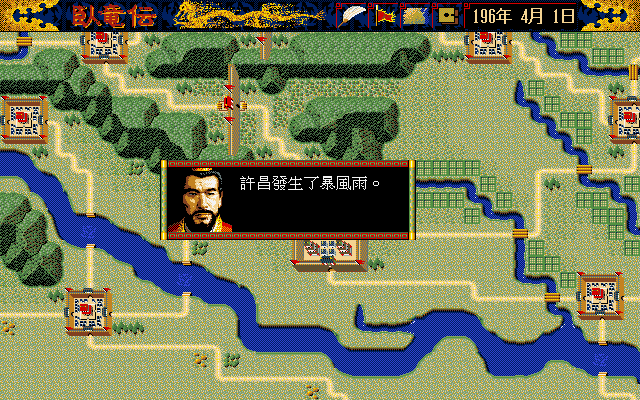
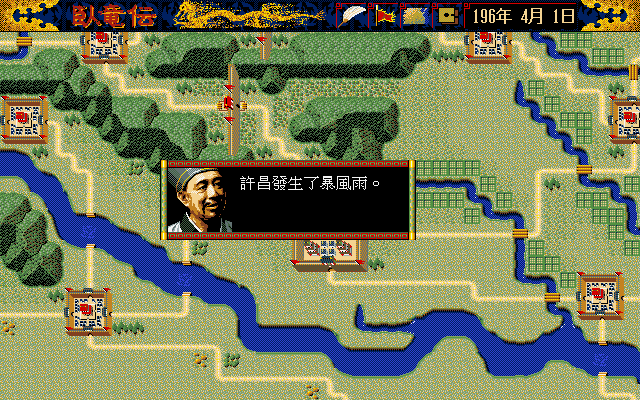
三支推廣片重錄重剪；順手補上雜湊層一直看不到的那塊
訊息框肖像、戰場快轉鈕與手機金額鍵盤都動過，所以主預告、DOS/V 實機
對照片與手機片三支全部重錄重剪，靜態圖也重拍。**五張裡只有
`promo-talk.png` 換了雜湊**——正好對應肖像那筆修正的影響範圍，
其餘四張逐位元組相同。

⭐ 順手用突變測試戳了一下 `stale_scan` 的雜湊層：把主預告的雜湊改錯
一個字元，掃描照樣通過。成因是那一層**逐行**配對「檔名 … SHA-256 …」，
而推廣片與發行產物的標準寫法是條列式、檔名與雜湊分屬不同行——
那幾支影片的雜湊結構上就比不到，綠了幾個月一次都沒驗過。

改成以段落為界的視窗（空行／標題是邊界）、取雜湊前最近的一個檔名、
`workplace/` 的 IDA 資料庫與標明「當時」的歷史值各自跳過並印出理由。
自我測試改成呼叫本體那一支，並補上條列跨行的正對照——先前它自己重寫
了一份逐行比對，所以驗的是一個本體早就不是這樣做的東西。

順帶修掉這一層現在抓得到的三處：`re/58`／`59` 把 `KI.EXE` 的雜湊寫在
`.i64` 那一欄，以及一份中間 WAV 的雜湊沒有標明是當時的值。

Changed region(s): [[0.25, 0.42, 0.375, 0.6]]

diff --git a/tools/stale_scan.py b/tools/stale_scan.py
@@ -44,11 +44,20 @@ DOC_FILES = ("README.md", "CLAUDE.md", "CONTEXT.md", "WORKLIST.md",
 # 只認「檔名 …(80 字內，且中間出現 SHA 或「雜湊」)… 64 個 hex」這種相鄰寫法。
 # 放寬到「同一行任何檔名配任何雜湊」會產生大量假陽性——一行裡常有兩三個
 # 檔名與兩三個雜湊，配對本身就是猜的。
-HASH_CLAIM = re.compile(
-    r"(?P<file>[A-Za-z0-9_\-./]+\.(?:png|mp4|ogg|wav|json|md|go|py|sh))"
-    r"(?P<mid>.{0,80}?)`?(?P<hash>[0-9a-fA-F]{64})`?",
-    re.S,
+HASH_CLAIM = re.compile(r"`?\b(?P<hash>[0-9a-fA-F]{64})\b`?")
+
+# 檔名候選：**只認白名單副檔名**。放寬到「任何 `x.y`」會把 `H.264`、
+# 版本號、`44.1 kHz` 一起收進來，而它們永遠解不出檔案 → 整批變成「跳過」，
+# 這一層就再次靜默失效。
+HASH_FILE = re.compile(
+    r"[A-Za-z0-9_\-./]+\.(?:png|jpg|gif|mp4|ogg|wav|json|md|go|py|sh|txt|csv|tsv"
+    r"|exe|dat|i64|asm|bin|apk|zip|tar|gz|AppImage)\b",
+    re.I,
 )
+# 視窗以**段落**為界（空行／標題），上限 400 字。
+# 80 字太小：條列式的「- 影片：…mp4」與「- SHA-256：`…`」中間常隔一整行規格，
+# 於是那三支推廣片的雜湊一條都比不到（2026-08-29 突變測試發現）。
+HASH_WINDOW = 400
 
 # ── 第二層：docker 映像標籤 ─────────────────────────────────────
 IMAGE_TAG = re.compile(r"\b([a-z0-9][a-z0-9._/-]*?):(20[0-9]{6}[a-z0-9.-]*)\b")
@@ -96,6 +105,55 @@ def resolve(rel, doc):
     return None
 
 
+def hash_claims(text, doc, skipped):
+    """吐出這份文件裡「某個檔案的雜湊是 X」的宣稱：(行號, 檔案路徑, 宣稱值)。
+
+    ⭐ **自我測試與本體共用這一支。** 先前的自我測試自己重寫了一份逐行的
+    比對，於是它一直在驗一個「本體早就不是這樣做」的邏輯——正對照過關，
+    真正的版面（條列式，檔名與雜湊分屬不同行）卻一條都沒比到。
+    """
+    for m in HASH_CLAIM.finditer(text):
+        start = m.start("hash")
+        window = text[max(0, start - HASH_WINDOW):start]
+        # ⭐ **視窗跨行，但不跨空行與標題。** 條列式的寫法本來就把檔名與
+        # 雜湊拆成兩行（「- 影片：…mp4」／「- SHA-256：`…`」），逐行配對
+        # 對這種版面**結構上看不到**——而那正是推廣片與發行產物的標準寫法，
+        # 於是這一層長年綠燈卻一次都沒比過那幾支影片（2026-08-29 用突變
+        # 測試發現：把主預告的雜湊改錯一個字元，掃描照樣通過）。
+        # 空行與標題是段落邊界，跨過去就會把上一段的檔名黏到這一段的雜湊上。
+        for stop in ("\n\n", "\n#"):
+            if stop in window:
+                window = window[window.rindex(stop) + len(stop):]
+        if "SHA" not in window.upper() and "雜湊" not in window:
+            continue
+        # 明講是「當時」的值＝刻意保留的歷史紀錄，不是現況宣稱。
+        # ⚠ 只看雜湊自己那一行與前一行——用整個段落找「當時」會讓
+        # 段落裡任何一句話都能豁免整段的雜湊。
+        nl = text.find("\n", start)
+        near = "\n".join(window.splitlines()[-2:]) + text[start:nl if nl >= 0 else len(text)]
+        if "當時" in near:
+            skipped["雜湊（標明是當時的值）"] += 1
+            continue
+        cands = [x.group(0) for x in HASH_FILE.finditer(window)]
+        if not cands:
+            continue
+        # ⭐ **取最近的那一個。** 同一個視窗裡常有兩個檔名
+        #（「見 `docs/re/47`…原始 `KI.EXE` SHA-256 `…`」），
+        # 配到遠的那個就是憑空捏一條假陽性。
+        rel = cands[-1].rstrip(".，。、)）」]")
+        target = resolve(rel, doc)
+        if target is None:
+            skipped["雜湊（檔案不在工作區）"] += 1
+            continue
+        # `workplace/` 底下是素材與 IDA 資料庫。**`.i64` 的雜湊本來就會漂**
+        #（`idat` 一開啟就改寫它，CLAUDE.md §4.1），筆記記的是「這個結論
+        # 是在哪一份資料庫上驗的」——那是出處紀錄，不是現況宣稱。
+        if os.path.relpath(target, REPO).startswith("workplace" + os.sep):
+            skipped["雜湊（workplace 素材／IDA 資料庫）"] += 1
+            continue
+        yield text.count("\n", 0, start) + 1, target, m.group("hash").lower()
+
+
 def check_hashes(problems, skipped):
     """文件宣稱的檔案雜湊 vs 實際。"""
     for doc in doc_paths():
@@ -103,22 +161,14 @@ def check_hashes(problems, skipped):
         # 按日期的台帳記的是「當時量到的值」，不是現況。
         if rel_doc in ("RESEARCH-LOG.md", "WORKLIST.md"):
             continue
-        for i, line in enumerate(read(doc).splitlines(), 1):
-            for m in HASH_CLAIM.finditer(line):
-                mid = m.group("mid")
-                if "SHA" not in mid.upper() and "雜湊" not in mid:
-                    continue
-                target = resolve(m.group("file"), doc)
-                if target is None:
-                    skipped["雜湊（檔案不在工作區）"] += 1
-                    continue
-                with open(target, "rb") as fh:
-                    actual = hashlib.sha256(fh.read()).hexdigest()
-                if actual != m.group("hash").lower():
-                    problems.append((
-                        rel_doc, i, "雜湊過期",
-                        f"{os.path.relpath(target, REPO)}："
-                        f"文件說 {m.group('hash')[:16]}…，實際 {actual[:16]}…"))
+        for i, target, claimed in hash_claims(read(doc), doc, skipped):
+            with open(target, "rb") as fh:
+                actual = hashlib.sha256(fh.read()).hexdigest()
+            if actual != claimed:
+                problems.append((
+                    rel_doc, i, "雜湊過期",
+                    f"{os.path.relpath(target, REPO)}："
+                    f"文件說 {claimed[:16]}…，實際 {actual[:16]}…"))
 
 
 def script_image_tags():
@@ -272,27 +322,39 @@ def selftest():
         real = hashlib.sha256(b"probe").hexdigest()
         doc = os.path.join(tmp, "doc.md")
 
-        def scan(body, fn):
+        def scan(body, fn=None):
             with open(doc, "w", encoding="utf-8") as fh:
                 fh.write(body)
-            found = []
-            for i, line in enumerate(body.splitlines(), 1):
-                for m in HASH_CLAIM.finditer(line):
-                    if "SHA" not in m.group("mid").upper() and "雜湊" not in m.group("mid"):
-                        continue
-                    t = resolve(m.group("file"), doc)
-                    if t is None:
-                        continue
-                    with open(t, "rb") as fh:
-                        if hashlib.sha256(fh.read()).hexdigest() != m.group("hash").lower():
-                            found.append((i, "雜湊"))
-            return found
+            sink = {"雜湊（檔案不在工作區）": 0, "雜湊（標明是當時的值）": 0,
+                    "雜湊（workplace 素材／IDA 資料庫）": 0}
+            out = []
+            for i, target, claimed in hash_claims(body, doc, sink):
+                with open(target, "rb") as fh:
+                    if hashlib.sha256(fh.read()).hexdigest() != claimed:
+                        out.append((i, "雜湊"))
+            return out
 
         bad = "0" * 64
         want("雜湊：擋下錯的",
-             scan(f"- `probe.png` SHA-256 `{bad}`", None))
+             scan(f"- `probe.png` SHA-256 `{bad}`"))
         want("雜湊：對的不誤報",
-             scan(f"- `probe.png` SHA-256 `{real}`", None), expect=False)
+             scan(f"- `probe.png` SHA-256 `{real}`"), expect=False)
+        # ⭐ **條列式（檔名與雜湊分屬不同行）是推廣片與發行產物的標準寫法。**
+        # 這個正對照擋的是「逐行配對」那種寫法回鍋——它會讓整批產物的雜湊
+        # 靜默地不被比對，而輸出跟「沒問題」一模一樣。
+        bullets = ("- 影片：[`probe.png`](probe.png)\n"
+                   "- 規格：48.468 秒、1280×720、30 fps、H.264／AAC\n"
+                   "- SHA-256：`{}`")
+        want("雜湊：條列跨行也要比（擋下錯的）", scan(bullets.format(bad)))
+        want("雜湊：條列跨行對的不誤報", scan(bullets.format(real)), expect=False)
+        # 空行是段落邊界：上一段的檔名不該黏到這一段沒有檔名的雜湊上。
+        want("雜湊：不跨段落配對",
+             scan(f"- 工具：[`probe.png`](probe.png)\n\n產物 SHA-256：`{bad}`"),
+             expect=False)
+        # 標明「當時」的歷史值不算現況宣稱。
+        want("雜湊：標明當時的值放行",
+             scan(f"- `probe.png` SHA-256 `{bad}`（2026-08-11 當時的版本）"),
+             expect=False)
 
     used = script_image_tags()
     want("映像標籤：腳本裡真的找得到標籤", used)
@@ -338,7 +400,8 @@ def main():
         return selftest()
     problems = []
     skipped = {}
-    for name in ("雜湊（檔案不在工作區）", "旗標（沒有 cmd/）",
+    for name in ("雜湊（檔案不在工作區）", "雜湊（標明是當時的值）", "雜湊（workplace 素材／IDA 資料庫）",
+                 "旗標（沒有 cmd/）",
                  "覆蓋率（沒有 census.tsv）", "覆蓋率（重算失敗）",
                  "未解列數（沒有 docs/re/43）", "未解列數（43 讀不出總數）",
                  "覆蓋率（讀不出重算結果）"):

diff --git a/docs/promo/README.md b/docs/promo/README.md
@@ -2,9 +2,10 @@
 
 **狀態：五支影片都已產出並驗過媒體規格。主預告是 72 秒，
 含語言切換與原版並排兩段；遊戲段落是逐幀錄下來的實跑畫面。
-2026-08-28 因為戰術規則層動過，主預告、原版實機對照片與手機片三支全部重錄重剪。**
+2026-08-29 因為訊息框肖像、戰場快轉鈕與手機金額鍵盤都動過，
+主預告、原版實機對照片與手機片三支全部重錄重剪。**
 
-- 日期：2026-08-28（三支重錄重剪）／2026-08-26（主預告改成 72 秒的分鏡）／2026-08-21（其餘）
+- 日期：2026-08-29（三支重錄重剪）／2026-08-26（主預告改成 72 秒的分鏡）／2026-08-21（其餘）
 
 可交付推廣片已集中在 [`dist-all/promo`](../../dist-all/promo)。主預告輸出為
 `dist-all/promo/wolong-remake-trailer.mp4`，長度 72 秒、1280×720、H.264／AAC。
@@ -30,8 +31,9 @@
 | 60–65 | 一覽表／進言 | 截圖（`promo-*.png`，**每次重剪都重拍**）|
 | 65–72 | 結尾卡 | 合成 |
 
-輸出（2026-08-28 重錄重剪）：72.000 秒、1280×720、h264／aac 44.1 kHz 立體聲，
[1 lines of base64/hex data omitted]
+輸出（2026-08-29 重錄重剪）：`dist-all/promo/wolong-remake-trailer.mp4`，
+72.000 秒、1280×720、h264／aac 44.1 kHz 立體聲，
[1 lines of base64/hex data omitted]
 
 ⚠ **「不重複張數」會隨機器負載變**：同一條命令在閒置的機器上與在
 14 核 load 90 的機器上量到的數字差三成（大地圖 71 → 51、野戰 119 → 84）。
@@ -42,6 +44,17 @@ SHA-256 `58fe759a7f5bfba93972d380b7227570da292838bf3173ea455636586a3c2876`。
 （[`../spec/88`](../spec/88-display-polish-parity.md)），片子裡看得到那兩個問題；
 2026-08-28 的戰術規則層修正（[`../release/10`](../release/10-full-20260828.md) §1）
 同樣改變了攻城與野戰兩段的畫面。
+
+⭐ **重拍五張靜態圖是便宜的自我檢查。** 2026-08-29 那一輪重拍完只有
+`promo-talk.png` 換了雜湊，其餘四張逐位元組相同——而那一輪動的正是
+訊息框的肖像（[`../spec/106`](../spec/106-message-box-reporter-portrait.md)）。
+**變的張數對得上改動的範圍**，就表示重拍確實吃到了新的程式碼；
+五張全都沒變才是要停下來查的訊號。
+
+2026-08-29 那一輪的動態段（張數／不重複張數）：大地圖 330／25、
+野戰 390／84、攻城 270／76、四個語系各 130／18・10・20・22、
+`newgame`／`form`／`march` 各 90／1（那三段開的是非常駐視窗，原版時鐘停住，
+1 是對的）。
 
 ⭐ **錄製與重拍的命令現在都在腳本裡**：動態段七 ＋ 三段在
 `tools/promo_live_capture.sh`，五張靜態圖在 `tools/promo_stills.sh`。
@@ -173,7 +186,7 @@ PROMO_FONTFILE=/fonts/NotoSansTC-Regular.otf \
 
 現行的是
 [`wolong-remake-dosv-realmachine.mp4`](../../dist-all/promo/wolong-remake-dosv-realmachine.mp4)，
[2 lines of base64/hex data omitted]
 **原版側是自己跑的受控 DOSBox-X 實機遊玩**：開新遊戲、劇本與君主選擇、
 大地圖與時鐘、軍團編成、事件訊息、行軍指示，全部照 timeline 可以重跑。
 只有戰術戰場那一格取自使用者提供的錄影，並在片上標明。

diff --git a/docs/INDEX.md b/docs/INDEX.md
@@ -89,7 +89,7 @@
 | [`docs/playtest/53-battle-fast-forward.md`](playtest/53-battle-fast-forward.md) | 53 — 實機：戰場的 ▶▶ 按下去會怎樣 | PASS（行為 confirmed）。按一下戰場整片變成均勻底紋、側欄與小地圖照動；再按一下戰場回來。 | 2026-08-29 |
 | [`docs/playtest/54-menu-second-row-tap.md`](playtest/54-menu-second-row-tap.md) | 54 — 原版擷取：彈出選單的第二列終於點得到 | PASS。單獨一下 5–60 ms 的瞬按（tap:x,y,ms）能把「軍團」選單打開而不選走第一列；先前點不到的是… | 2026-08-29 |
 | [`docs/playtest/55-encounter-menu-parity.md`](playtest/55-encounter-menu-parity.md) | 55 — 實機：遭遇時原版沒有「戰鬥指揮／委任」選單 | 定案。訊息框按掉之後直接是戰場，中間沒有選單；playtest/31 §6 那一項不是「還沒對拍」，是原版沒有那個畫面。 | 2026-08-29 |
-| [`docs/promo/README.md`](promo/README.md) | 推廣片產出紀錄 | 五支影片都已產出並驗過媒體規格。主預告是 72 秒， 含語言切換與原版並排兩段；遊戲段落是逐幀錄下來的實跑畫面。 2… | 2026-08-28 |
+| [`docs/promo/README.md`](promo/README.md) | 推廣片產出紀錄 | 五支影片都已產出並驗過媒體規格。主預告是 72 秒， 含語言切換與原版並排兩段；遊戲段落是逐幀錄下來的實跑畫面。 2… | 2026-08-29 |
 | [`docs/promo/android.md`](promo/android.md) | Android 版推廣片 | 已產出 48 秒片；素材只有 remake 自己的畫面與本專案原創的合成配樂。 | 2026-08-20 |
 | [`docs/promo/classic-revival.md`](promo/classic-revival.md) | 「經典再現」推廣片 | 已產出研究／推廣用 60 秒比較片；不把代表幀比較宣稱為同狀態逐像素 parity。 | 2026-08-11 |
 | [`docs/promo/dosv-adlib-and-tactical-review.md`](promo/dosv-adlib-and-tactical-review.md) | 推廣片原版 AdLib 與戰術骨架審查 | 歷史審查紀錄（2026-08-12）。 | 2026-08-12 |

diff --git a/docs/promo/android.md b/docs/promo/android.md
@@ -4,8 +4,8 @@
 
 - 日期：2026-08-20
 - 影片：[`dist-all/promo/wolong-remake-android.mp4`](../../dist-all/promo/wolong-remake-android.mp4)
-- 規格：48.5 秒、1280×720、H.264／AAC、44.1 kHz 立體聲，4.2M
[1 lines of base64/hex data omitted]
+- 規格：48.468 秒、1280×720、30 fps、H.264／AAC、44.1 kHz 立體聲，6.3M
[1 lines of base64/hex data omitted]
 - 重現：[`tools/phone_capture.sh`](../../tools/phone_capture.sh) → [`tools/promo_android.sh`](../../tools/promo_android.sh)
 
 ## 怎麼錄的

diff --git a/docs/promo/dosv-realmachine.md b/docs/promo/dosv-realmachine.md
@@ -6,7 +6,7 @@
 - 日期：2026-08-23
 - 成品：`dist-all/promo/wolong-remake-dosv-realmachine.mp4`
 - 長度／格式：72.000 秒、1280×720、30 fps、H.264 ＋ AAC（44.1 kHz 立體聲）
[2 lines of base64/hex data omitted]
 - 合成腳本：[`../../tools/promo_dosv_realmachine.sh`](../../tools/promo_dosv_realmachine.sh)
 - 取代：[`dosv-live-comparison.md`](dosv-live-comparison.md)（2026-08-12，原版畫面九成來自 YouTube 錄影）
 

diff --git a/docs/promo/dosv-adlib-and-tactical-review.md b/docs/promo/dosv-adlib-and-tactical-review.md
@@ -16,7 +16,7 @@
[1 lines of base64/hex data omitted]
 - 成片使用來源 `300–375 s` 的原版遊戲音軌；只做音量、限制器、淡入與淡出，
   沒有重作旋律、替換音色或呼叫 `tools/promo_score.py`。
-- 中間 WAV SHA-256：
+- 中間 WAV（當時的產出，沒有留在工作區）SHA-256：
[1 lines of base64/hex data omitted]
   44.1 kHz、雙聲道、75 秒，平均音量 `-21.7 dB`、峰值 `-4.2 dB`。
 - 這是使用者錄影中的原版遊戲音訊，不宣稱是本輪 DOSBox-X 直接錄製。

diff --git a/docs/re/58-bgm-scene-mapping.md b/docs/re/58-bgm-scene-mapping.md
@@ -8,8 +8,8 @@
 這也解掉 [`43`](43-open-questions.md) 掛的「`sub_193D7(al)` 的 2/3/4/5 是什麼索引」。
 
 - 日期：2026-08-15
-- 輸入：`workplace/ida/dosv/KI.EXE.i64`　SHA-256
[1 lines of base64/hex data omitted]
+- 輸入：`workplace/ida/dosv/KI.EXE.i64`（由 `KI.EXE` SHA-256
[1 lines of base64/hex data omitted]
 - 工具：**IDAPython** `tools/ida_callsite_args.py`、`tools/ida_dump.py`；
   `tools/ida_xref.idc`、`tools/ida_dump_bytes.idc`
 - 位址空間：IDA linear（段基址 `0x10000`）

diff --git a/docs/re/59-game-over-exit-codes.md b/docs/re/59-game-over-exit-codes.md
@@ -8,8 +8,8 @@
 ——那一份先前整份都是「說明書」等級。
 
 - 日期：2026-08-16
-- 輸入：`workplace/ida/dosv/KI.EXE.i64`　SHA-256
[1 lines of base64/hex data omitted]
+- 輸入：`workplace/ida/dosv/KI.EXE.i64`（由 `KI.EXE` SHA-256
[1 lines of base64/hex data omitted]
   `YNVSHELL.COM`（979 B）、`SINARIO.DAT`（88,832 B）
 - 工具：`tools/ida_dump.py`、`tools/ida_callsite_args.py`、`tools/ida_xref.idc`、
   `tools/ida_disp_users.py`
